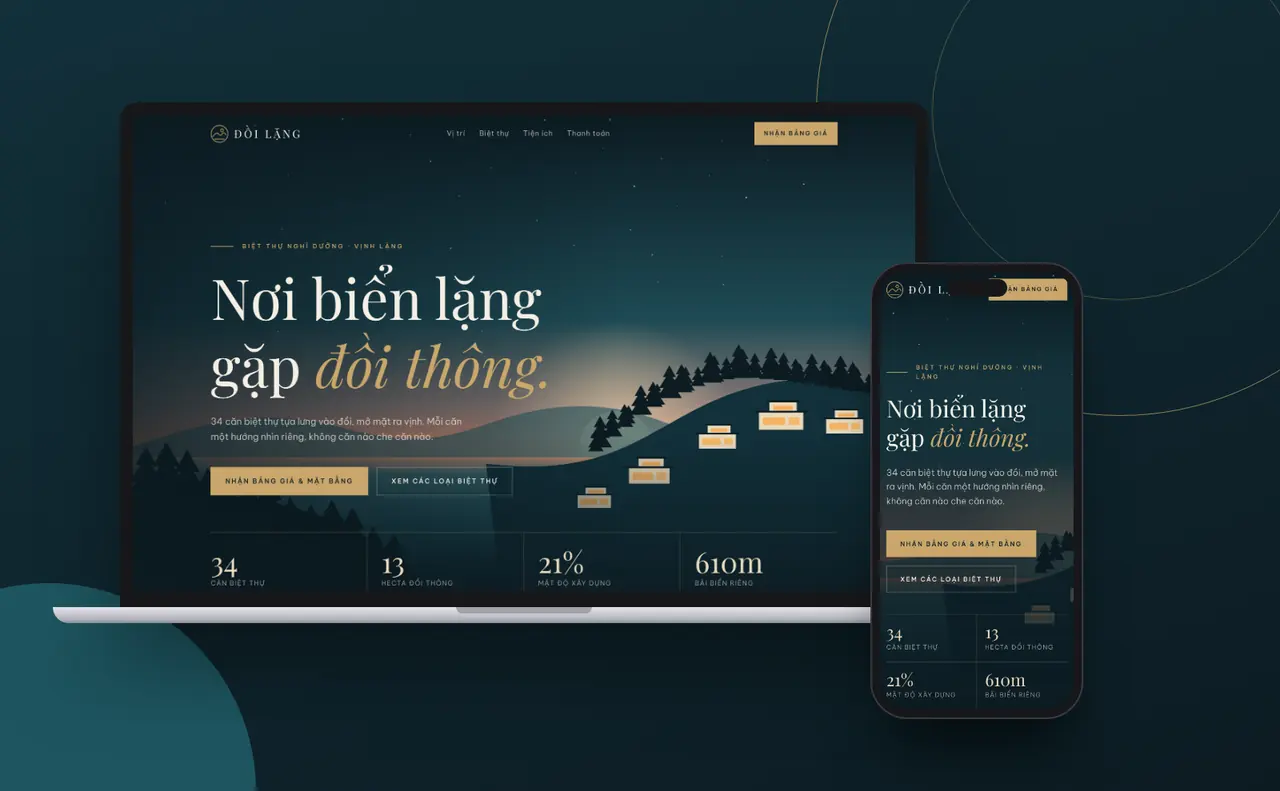
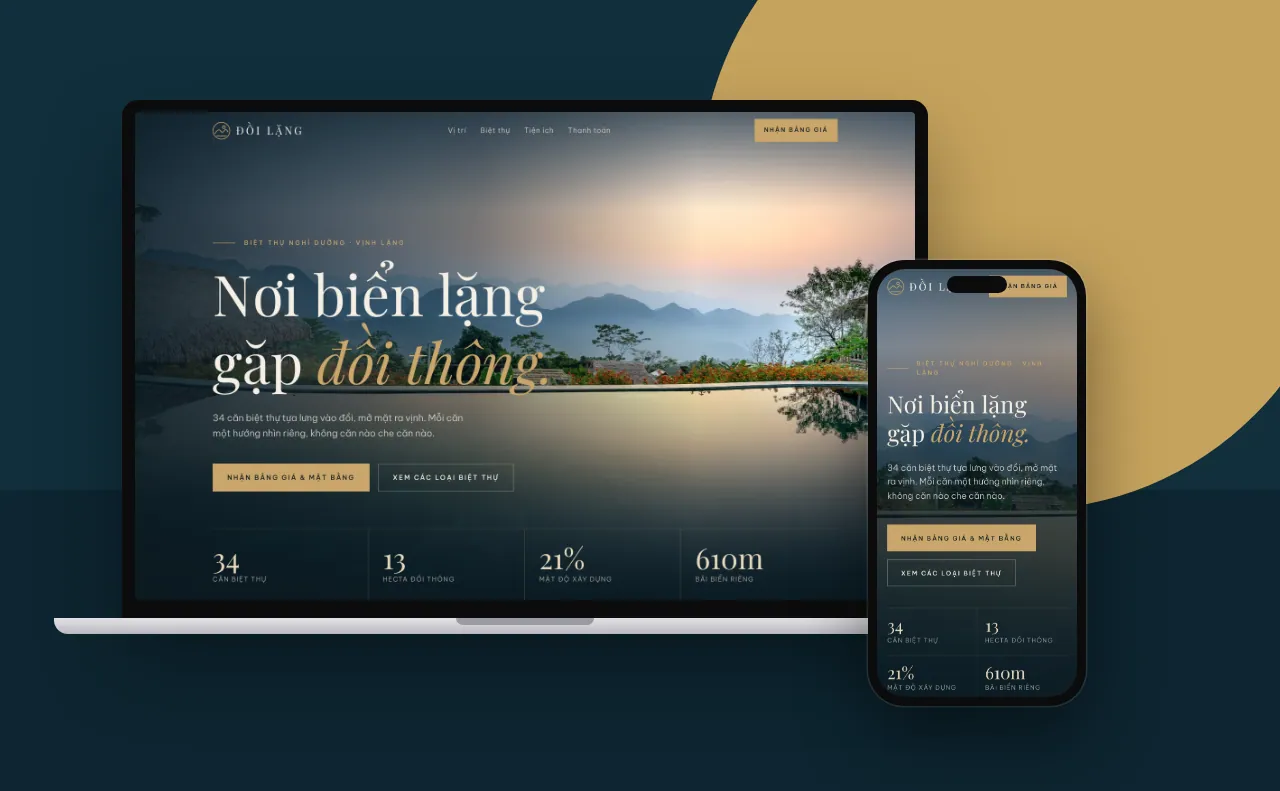
Demo Đồi Lặng: hero sương đồi ảnh thật, cảnh ghim một ngày trên đồi, lookbook kéo có quán tính
Claude-Session: https://claude.ai/code/session_012QLWn7rvRysGvRwdv6upwG

diff --git a/demos/doi-lang.html b/demos/doi-lang.html
@@ -42,28 +42,88 @@ header .btn{min-height:42px;padding:0 16px;font-size:11px}
 @media(max-width:940px){nav{display:none}}
 /* hero */
 .hero{position:relative;min-height:min(100svh,940px);display:flex;align-items:flex-end;overflow:hidden;padding:var(--s8) 0 0}
+.hb{position:absolute;inset:-130px -24px -24px;will-change:transform}
+.hb img{width:100%;height:100%;object-fit:cover;object-position:50% 46%;transform-origin:62% 40%;animation:kb 38s ease-in-out infinite alternate;will-change:transform}
+@keyframes kb{from{transform:scale(1.02)}to{transform:scale(1.15) translate(-1.6%,1.2%)}}
+.fog{position:absolute;left:-6%;right:-6%;top:22%;height:30%;pointer-events:none;overflow:hidden}
+.fog i{display:block;width:200%;height:100%;background:radial-gradient(ellipse 22% 46% at 18% 52%,rgba(244,239,228,.5),transparent 72%),radial-gradient(ellipse 30% 38% at 60% 40%,rgba(244,239,228,.34),transparent 70%),radial-gradient(ellipse 15% 30% at 87% 64%,rgba(244,239,228,.3),transparent 70%);background-size:50% 100%;animation:fg 96s linear infinite;will-change:transform}
+.fog.f2{top:36%;height:28%;opacity:.8}.fog.f2 i{animation-duration:64s;animation-direction:reverse}
+.fog.f3{top:50%;height:34%;opacity:.55}.fog.f3 i{animation-duration:46s}
+@keyframes fg{to{transform:translateX(-50%)}}
+[data-on]:not(.on) *{animation-play-state:paused!important}
 .scene{position:absolute;inset:0;width:100%;height:100%}
 .scene .p{will-change:transform}
 .win{animation:tw 4.24s ease-in-out infinite alternate}.win:nth-child(3n){animation-delay:-1.6s}.win:nth-child(2n){animation-delay:-2.6s}
 @keyframes tw{from{opacity:.45}to{opacity:1}}
 .shim line{stroke:#F6DDB0;stroke-linecap:round;animation:sh 2.62s ease-in-out infinite alternate}
 @keyframes sh{from{opacity:.1;transform:translateX(-10px)}to{opacity:.7;transform:translateX(10px)}}
-.hero::after{content:"";position:absolute;inset:0;background:linear-gradient(90deg,rgba(12,27,34,.8) 0,rgba(12,27,34,.25) 46%,transparent 61.8%),linear-gradient(0deg,rgba(12,27,34,.92) 0,rgba(12,27,34,.5) 16%,transparent 34%);pointer-events:none}
+.hero::after{content:"";position:absolute;inset:0;background:linear-gradient(180deg,rgba(12,27,34,.6) 0,transparent 20%),linear-gradient(90deg,rgba(12,27,34,.86) 0,rgba(12,27,34,.5) 44%,transparent 72%),linear-gradient(0deg,rgba(12,27,34,.94) 0,rgba(12,27,34,.56) 22%,transparent 46%);pointer-events:none}
 .hero .c{position:relative;z-index:2;width:100%}
 .hero h1{font-size:clamp(46px,7.2vw,110px);max-width:11ch;margin:var(--s4) 0}
-.hero h1 span{display:block;overflow:hidden;padding-bottom:.08em}.hero h1 i{display:block;font-style:normal;animation:up var(--d6) var(--ease) both}
-.hero h1 span:nth-child(2) i{animation-delay:.162s}.hero h1 span:nth-child(3) i{animation-delay:.324s}
-@keyframes up{from{transform:translateY(110%)}}
+.hero h1>span{display:block;padding-bottom:.08em}
+.hero h1 .wd{display:inline-block;white-space:nowrap}
+.ch{display:inline-block;font-weight:inherit;animation:mist 2.8s var(--ease) both;animation-delay:calc(.3s + var(--c)*68ms)}
+@keyframes mist{from{opacity:0;transform:translate3d(.5em,.14em,0) scale(1.14)}}
+.js .hero .cap,.js .hero .l,.js .hero .cta,.js .facts{animation:rise 2.4s var(--ease) 1.5s both}.js .hero .cap{animation-delay:.1s}.js .facts{animation-delay:2s}
+@keyframes rise{from{opacity:0;transform:translateY(18px)}}
 .hero .l{max-width:44ch;color:rgba(244,239,228,.82);font-size:17px}
 .cta{display:flex;flex-wrap:wrap;gap:16px;margin-top:var(--s5)}
 .facts{display:grid;grid-template-columns:repeat(4,1fr);margin-top:var(--s6);border-top:1px solid var(--line)}
 .facts div{padding:var(--s4) var(--s4) var(--s4) 0;border-right:1px solid var(--line);padding-left:var(--s4)}.facts div:first-child{padding-left:0}.facts div:last-child{border-right:0}
 .facts b{font-family:var(--fd);font-weight:400;font-size:clamp(33px,4vw,53px);line-height:1;display:block;color:var(--sand)}.facts span{font-size:12px;letter-spacing:.12em;text-transform:uppercase;color:var(--muted)}
-@media(max-width:760px){.hero{padding-top:var(--s7)}.hero::after{background:linear-gradient(0deg,rgba(12,27,34,.96) 0,rgba(12,27,34,.6) 55%,rgba(12,27,34,.1) 80%)}.facts{grid-template-columns:1fr 1fr;margin-top:var(--s5)}.facts div{padding:var(--s3) var(--s3) var(--s3) 0}.facts div:nth-child(2){border-right:0}.facts div:nth-child(odd){padding-left:0}.facts div:nth-child(even){padding-left:var(--s3)}.facts div:nth-child(-n+2){border-bottom:1px solid var(--line)}}
+@media(max-width:760px){.hero{padding-top:var(--s7)}.hero::after{background:linear-gradient(180deg,rgba(12,27,34,.6) 0,transparent 18%),linear-gradient(0deg,rgba(12,27,34,.97) 0,rgba(12,27,34,.78) 50%,rgba(12,27,34,.42) 82%,rgba(12,27,34,.2) 100%)}.fog.f3{display:none}.hb img{object-position:42% 50%}.facts{grid-template-columns:1fr 1fr;margin-top:var(--s5)}.facts div{padding:var(--s3) var(--s3) var(--s3) 0}.facts div:nth-child(2){border-right:0}.facts div:nth-child(odd){padding-left:0}.facts div:nth-child(even){padding-left:var(--s3)}.facts div:nth-child(-n+2){border-bottom:1px solid var(--line)}}
 .sec{padding:var(--s7) 0;position:relative}
 .sh{display:grid;grid-template-columns:1.618fr 1fr;gap:var(--s6);align-items:end;margin-bottom:var(--s6)}
 .sh h2{font-size:clamp(33px,5vw,68px);margin-top:var(--s4)}.sh p{color:var(--muted)}
 @media(max-width:860px){.sec{padding:var(--s6) 0}.sh{grid-template-columns:1fr;gap:var(--s3);margin-bottom:var(--s5)}}
+/* một ngày */
+.day{position:relative}
+.dpin{position:relative;overflow:hidden;padding:var(--s7) 0}
+.ct{position:absolute;width:min(92vw,760px);height:auto;left:-14%;top:50%;transform:translateY(-50%);pointer-events:none;overflow:visible}
+.ct path{fill:none;stroke:var(--gold);stroke-width:1;opacity:.3;stroke-dasharray:1;stroke-dashoffset:1;transition:stroke-dashoffset 3.2s var(--ease);transition-delay:calc(var(--k)*.2s)}
+.ct.in path{stroke-dashoffset:0}
+.dh{position:relative;z-index:1;margin-bottom:var(--s6)}
+.dh h2{font-size:clamp(33px,5vw,68px);margin:var(--s4) 0 var(--s3)}.dh .l{color:var(--muted);max-width:42ch}
+.alt{display:flex;gap:var(--s5);margin-top:var(--s4);padding-top:var(--s3);border-top:1px solid var(--line);max-width:420px}
+.alt b{font-family:var(--fd);font-weight:400;font-size:42px;line-height:1;display:block;color:var(--sand)}.alt span{font-size:11px;letter-spacing:.12em;text-transform:uppercase;color:var(--muted)}
+.dst{position:relative;z-index:2;display:grid;grid-template-columns:repeat(3,1fr);gap:var(--s3);max-width:1280px;margin:0 auto;padding:0 max(20px,4.4vw)}
+.dp{margin:0;position:relative;aspect-ratio:4/5;overflow:hidden;border-radius:16px}
+.dp img{position:absolute;inset:0;width:100%;height:100%;object-fit:cover}
+.dp::after{content:"";position:absolute;inset:0;background:linear-gradient(0deg,rgba(12,27,34,.94),rgba(12,27,34,.66) 34%,transparent 68%)}
+.dp figcaption{position:absolute;z-index:1;left:var(--s4);right:var(--s4);bottom:var(--s4)}
+.tm{font-size:11px;letter-spacing:.3em;font-weight:500;color:var(--gold);display:flex;align-items:center;gap:12px}.tm::after{content:"";width:42px;height:1px;background:var(--gold)}
+.dp h3{font-size:clamp(26px,3vw,42px);margin:10px 0 6px}.dp p{font-size:15px;color:rgba(244,239,228,.84);max-width:36ch}
+.dtk,.day .fog{display:none}
+@media(max-width:860px){.dpin{padding:var(--s6) 0}.dst{grid-template-columns:1fr}.dp{aspect-ratio:4/5}.dp:nth-child(3) img{object-position:72% 50%}}
+.mo .day{height:300svh}
+.mo .dpin{position:sticky;top:0;height:100svh;padding:0}
+.mo .dh{position:absolute;inset:0;margin:0 auto;display:flex;flex-direction:column;justify-content:center}
+.mo .dh>*{max-width:min(44%,540px)}
+.mo .dst{position:absolute;inset:0;display:block;max-width:none;padding:0;will-change:clip-path}
+.mo .dp{position:absolute;inset:0;aspect-ratio:auto;border-radius:0}.mo .dp img{will-change:transform}
+.mo .dp figcaption{left:max(20px,4.4vw);right:max(20px,4.4vw);bottom:var(--s6)}
+.mo .dp h3{font-size:clamp(46px,7.2vw,110px);margin:var(--s3) 0}.mo .dp p{font-size:17px}
+.mo .day .fog{display:block;top:20%;height:32%;opacity:.5}
+.mo .dtk{display:block;position:absolute;z-index:3;right:max(20px,4.4vw);top:32%;bottom:32%;width:1px;background:rgba(244,239,228,.28)}
+.dtk i{position:absolute;inset:0;background:var(--gold);transform-origin:top;transform:scaleY(0)}
+@media(max-width:860px){.mo .dh{justify-content:flex-start;padding-top:92px}.mo .dh>*{max-width:none}.mo .dh .l{display:none}.mo .dp figcaption{bottom:var(--s5)}.mo .dp p{font-size:15px}.mo .dtk{top:20%;bottom:auto;height:22%}}
+/* lookbook */
+.look{overflow:hidden}.look .ct{left:auto;right:-16%;top:0;transform:none;width:min(70vw,560px)}
+.hint{font-size:11px;letter-spacing:.3em;text-transform:uppercase;font-weight:500;color:var(--gold);margin-top:var(--s3);display:block}
+.lb{overflow-x:auto;scroll-snap-type:x mandatory;scrollbar-width:none;-webkit-overflow-scrolling:touch;position:relative}.lb::-webkit-scrollbar{display:none}
+.lt{display:flex;align-items:flex-start;gap:var(--s4);width:max-content;padding:0 max(20px,4.4vw) var(--s3)}
+.lf{margin:0;flex:0 0 auto;width:clamp(280px,35vw,540px);aspect-ratio:4/3;position:relative;overflow:hidden;scroll-snap-align:center}
+.lf.t{width:clamp(220px,24vw,370px);aspect-ratio:3/4}.lf:nth-child(2n){margin-top:var(--s6)}.lf:nth-child(3n){margin-top:var(--s4)}
+.lf img{width:100%;height:100%;object-fit:cover;transition:transform 1.8s var(--ease);-webkit-user-drag:none;user-select:none}
+.lf figcaption{position:absolute;inset:auto 0 0;padding:var(--s6) var(--s3) var(--s3);background:linear-gradient(0deg,rgba(12,27,34,.9),transparent);display:flex;align-items:baseline;gap:12px;font-family:var(--fd);font-size:20px;transition:transform var(--d4) var(--ease),opacity var(--d4) var(--ease)}
+.lf figcaption small{font-family:var(--fb);font-size:11px;letter-spacing:.2em;color:var(--gold);font-weight:500}
+@media(hover:hover){.lf figcaption{transform:translateY(40%);opacity:0}.lf:hover figcaption{transform:none;opacity:1}.lf:hover img{transform:scale(1.07)}}
+.dg .lb{overflow:hidden;cursor:grab;touch-action:pan-y}.dg .lb.gr{cursor:grabbing}.dg .lt{will-change:transform}
+.lpb{height:1px;background:var(--line);margin:var(--s4) max(20px,4.4vw) 0;position:relative}.lpb i{position:absolute;inset:-1px 0 0;background:var(--gold);transform-origin:left;transform:scaleX(.12)}
+@media(max-width:860px){.lt{gap:var(--s3)}.lf{width:78vw}.lf.t{width:62vw}.lf:nth-child(2n){margin-top:var(--s4)}.lf:nth-child(3n){margin-top:var(--s3)}.lf figcaption{font-size:17px}}
+/* chiều muộn */
+.dusk{position:relative;height:min(60vh,540px);overflow:hidden;margin-bottom:var(--s6)}
+.dusk::after{content:"";position:absolute;inset:auto 0 0;height:34%;background:linear-gradient(0deg,var(--night),transparent)}
 /* vị trí */
 .loc{background:var(--deep)}
 .lg{display:grid;grid-template-columns:1.618fr 1fr;gap:var(--s5);align-items:center}
@@ -122,7 +182,7 @@ header .btn{min-height:42px;padding:0 16px;font-size:11px}
 .note{font-size:13px;color:var(--muted);margin-top:var(--s3)}
 @media(max-width:860px){.pay .bar{display:none}.pg{grid-template-columns:1fr 1fr;gap:0;margin-top:var(--s4);border-top:1px solid var(--line)}.ps{border-left:0;border-bottom:1px solid var(--line);padding:var(--s3) 0}.tbl th:nth-child(2),.tbl td:nth-child(2),.tbl th:nth-child(3),.tbl td:nth-child(3){display:none}.tbl td:first-child,.tbl td:last-child{font-size:20px}}
 /* form */
-.lead{background:linear-gradient(180deg,var(--deep),var(--night))}
+.lead{background:linear-gradient(180deg,var(--night),var(--deep));padding-top:0}
 .fgd{display:grid;grid-template-columns:1.618fr 1fr;gap:var(--s6);align-items:center}
 .fgd h2{font-size:clamp(33px,5vw,68px);margin:var(--s4) 0}
 form{border:1px solid var(--line);padding:var(--s5);background:rgba(12,27,34,.5);display:grid;gap:var(--s3)}
@@ -136,7 +196,7 @@ footer{border-top:1px solid var(--line);padding:var(--s5) 0 var(--s7);font-size:
 footer .w{display:flex;flex-wrap:wrap;gap:16px 42px;justify-content:space-between}
 .back{position:fixed;left:16px;bottom:16px;z-index:40;background:rgba(12,27,34,.86);border:1px solid var(--line);padding:0 16px;min-height:42px;display:flex;align-items:center;gap:8px;font-size:12px;letter-spacing:.1em;backdrop-filter:blur(10px)}
 .emb .back{display:none}
-@media(prefers-reduced-motion:reduce){*,*::before,*::after{animation:none!important;transition-duration:.01ms!important}.js [data-r]{opacity:1;transform:none}.rt{stroke-dashoffset:0}}
+@media(prefers-reduced-motion:reduce){*,*::before,*::after{animation:none!important;transition-duration:.01ms!important}.js [data-r]{opacity:1;transform:none}.rt,.ct path{stroke-dashoffset:0}}
 </style>
 </head>
 <body>
@@ -147,34 +207,30 @@ footer .w{display:flex;flex-wrap:wrap;gap:16px 42px;justify-content:space-betwee
 </div></header>
 
 <main id="top">
-<section class="hero">
- <svg class="scene" viewBox="0 0 1440 900" preserveAspectRatio="xMidYMax slice" aria-hidden="true">
-  <defs>
-   <linearGradient id="sky" x1="0" y1="0" x2="0" y2="1"><stop offset="0" stop-color="#0C1B22"/><stop offset=".42" stop-color="#1E4A54"/><stop offset=".6" stop-color="#8F7C78"/><stop offset=".68" stop-color="#DE8E6E"/><stop offset=".72" stop-color="#F0C493"/></linearGradient>
-   <linearGradient id="sea" x1="0" y1="0" x2="0" y2="1"><stop offset="0" stop-color="#C98F73"/><stop offset=".12" stop-color="#3E6C73"/><stop offset=".5" stop-color="#1E5560"/><stop offset="1" stop-color="#0C1B22"/></linearGradient>
-   <radialGradient id="glow"><stop offset="0" stop-color="#F6DDB0" stop-opacity=".7"/><stop offset="1" stop-color="#F6DDB0" stop-opacity="0"/></radialGradient>
-  </defs>
-  <rect width="1440" height="900" fill="url(#sky)"/>
-  <g id="stars" fill="#F4EFE4"></g>
-  <g class="p" data-d=".04"><circle cx="890" cy="610" r="233" fill="url(#glow)"/><circle cx="890" cy="612" r="68" fill="#F6DDB0"/></g>
-  <path class="p" data-d=".07" d="M0 610C140 560 250 540 380 574S560 600 660 566 860 520 980 566s220 30 300 6 110-20 160-10v70H0z" fill="#3B6268" opacity=".75"/>
-  <rect y="630" width="1440" height="270" fill="url(#sea)"/>
-  <g class="shim" id="shim"></g>
-  <g class="p" data-d=".12"><g transform="translate(1440 0) scale(-1 1)">
-   <path d="M0 520C120 470 260 474 380 530c90 42 150 96 260 112 60 9 110 4 150 0L760 900H0z" fill="#12303A"/>
-   <g id="pines" fill="#0C1B22"></g>
-   <g id="villas"></g>
-  </g></g>
-  <g class="p" data-d=".2"><g transform="translate(1440 0) scale(-1 1)"><path d="M880 900c70-110 200-176 360-196 80-10 150-12 200-10v206z" fill="#081319"/><g id="pines2" fill="#081319"></g></g></g>
- </svg>
- <div class="c"><div class="w">
+<section class="hero" data-on>
+ <div class="hb" data-m="-22" data-s=".14"><img src="../img/photo/resort-6129987-xl.webp" width="2400" height="1600" alt="Hồ bơi tràn bờ lúc bình minh, phía xa là những lớp núi mờ trong sương" fetchpriority="high" decoding="async"></div>
+ <div class="fog" data-m="26"><i></i></div><div class="fog f2" data-m="48"><i></i></div><div class="fog f3" data-m="76"><i></i></div>
+ <div class="c" data-m="7"><div class="w">
   <p class="cap">Biệt thự nghỉ dưỡng · Vịnh Lặng</p>
-  <h1><span><i>Nơi biển lặng</i></span><span><i>gặp <em>đồi thông.</em></i></span></h1>
+  <h1 aria-label="Nơi biển lặng gặp đồi thông."><span>Nơi biển lặng</span><span>gặp <em>đồi thông.</em></span></h1>
   <p class="l">34 căn biệt thự tựa lưng vào đồi, mở mặt ra vịnh. Mỗi căn một hướng nhìn riêng, không căn nào che căn nào.</p>
   <div class="cta"><a class="btn" href="#dang-ky">Nhận bảng giá &amp; mặt bằng</a><a class="btn o" href="#biet-thu">Xem các loại biệt thự</a></div>
   <div class="facts"><div><b data-n="34">34</b><span>Căn biệt thự</span></div><div><b data-n="13">13</b><span>Hecta đồi thông</span></div><div><b data-n="21" data-s="%">21%</b><span>Mật độ xây dựng</span></div><div><b data-n="610" data-s="m">610m</b><span>Bãi biển riêng</span></div></div>
  </div></div>
 </section>
+
+<section class="day" id="mot-ngay"><div class="dpin" data-on>
+ <svg class="ct" viewBox="0 0 600 600" aria-hidden="true"></svg>
+ <div class="dh w"><p class="cap">Một ngày trên đồi</p><h2>Nhịp thở chậm,<br><em>từ sương sớm tới&nbsp;chiều&nbsp;tà.</em></h2><p class="l">Trên đồi không ai vội. Ánh sáng đổi màu ba lần mỗi ngày, và mỗi lần là một lý do để ngồi lại lâu hơn.</p>
+  <div class="alt"><div><b data-n="89" data-s=" m">89 m</b><span>Trên mặt vịnh</span></div><div><b data-n="34">34</b><span>Hướng nhìn riêng</span></div></div></div>
+ <div class="dst" id="dst">
+  <figure class="dp"><img src="../img/photo/doi-lang-som.webp" width="1800" height="1350" alt="Mặt hồ phẳng lặng lúc sáng sớm, núi xa chìm trong sương và một góc hiên nhà gỗ" loading="lazy" decoding="async"><figcaption><span class="tm">05:40</span><h3>Sương <em>sớm</em></h3><p>Sương còn nằm dưới thung, mặt hồ phẳng như gương. Cà phê pha xong thì nắng vừa lên.</p></figcaption></figure>
+  <figure class="dp"><img src="../img/photo/resort-30615183.webp" width="1600" height="1068" alt="Hồ ngâm lát đá cạnh sàn gỗ, nhìn thẳng ra mặt biển giữa trưa" loading="lazy" decoding="async"><figcaption><span class="tm">12:00</span><h3>Giữa <em>trưa</em></h3><p>Nắng đứng bóng, sàn gỗ ấm dưới chân. Gió từ vịnh thổi lên đủ để ngủ một giấc ngắn ngoài hiên.</p></figcaption></figure>
+  <figure class="dp"><img src="../img/photo/resort-221457.webp" width="1600" height="1067" alt="Hồ bơi tràn bờ trên sườn đồi lúc hoàng hôn, bầu trời chuyển màu hồng cam" loading="lazy" decoding="async"><figcaption><span class="tm">17:50</span><h3>Chiều <em>tà</em></h3><p>Trời ngả màu san hô, hồ bơi soi lại cả bầu trời. Bữa tối bắt đầu khi đèn hiên vừa sáng.</p></figcaption></figure>
+  <div class="fog"><i></i></div>
+ </div>
+ <div class="dtk"><i></i></div>
+</div></section>
 
 <section class="sec loc" id="vi-tri"><div class="w">
  <div class="sh"><div><p class="cap">Vị trí</p><h2 data-r>Đủ xa để yên tĩnh,<br><em>đủ gần để tiện.</em></h2></div><p data-r>Dự án nằm trên sườn đồi phía nam Vịnh Lặng, nối thẳng ra đường ven biển. Thời gian di chuyển tính theo tốc độ lái xe thông thường.</p></div>
@@ -211,6 +267,12 @@ footer .w{display:flex;flex-wrap:wrap;gap:16px 42px;justify-content:space-betwee
  </div>
 </div></section>
 
+<section class="sec look" id="khong-gian">
+ <div class="w"><svg class="ct" viewBox="0 0 600 600" aria-hidden="true"></svg><div class="sh"><div><p class="cap">Không gian</p><h2 data-r>Mỗi góc nhìn,<br><em>một khoảng lặng.</em></h2></div><p data-r>Hiên gỗ, mặt nước, tán lá. Ảnh minh họa không khí nghỉ dưỡng mà Đồi Lặng hướng tới.<span class="hint">Kéo ngang để dạo quanh</span></p></div></div>
+ <div class="lb" id="lb"><div class="lt" id="lt"></div></div>
+ <div class="lpb"><i id="lp"></i></div>
+</section>
+
 <section class="sec am" id="tien-ich"><div class="w">
  <div class="sh"><div><p class="cap">Tiện ích nội khu</p><h2 data-r>Mọi thứ trong<br><em>năm phút đi bộ.</em></h2></div><p data-r>Tiện ích do đơn vị vận hành quản lý quanh năm, chủ nhà không cần lo bảo trì.</p></div>
  <div class="ag" id="ag"></div>
@@ -225,7 +287,27 @@ footer .w{display:flex;flex-wrap:wrap;gap:16px 42px;justify-content:space-betwee
  <p class="note">Giá minh họa cho trang mẫu, chưa gồm thuế và phí bảo trì.</p>
 </div></section>
 
-<section class="sec lead" id="dang-ky"><div class="w">
+<section class="sec lead" id="dang-ky"><div class="dusk" data-on aria-hidden="true">
+ <svg class="scene" viewBox="0 0 1440 900" preserveAspectRatio="xMaxYMax slice">
+  <defs>
+   <linearGradient id="sky" x1="0" y1="0" x2="0" y2="1"><stop offset="0" stop-color="#0C1B22"/><stop offset=".42" stop-color="#1E4A54"/><stop offset=".6" stop-color="#8F7C78"/><stop offset=".68" stop-color="#DE8E6E"/><stop offset=".72" stop-color="#F0C493"/></linearGradient>
+   <linearGradient id="sea" x1="0" y1="0" x2="0" y2="1"><stop offset="0" stop-color="#C98F73"/><stop offset=".12" stop-color="#3E6C73"/><stop offset=".5" stop-color="#1E5560"/><stop offset="1" stop-color="#0C1B22"/></linearGradient>
+   <radialGradient id="glow"><stop offset="0" stop-color="#F6DDB0" stop-opacity=".7"/><stop offset="1" stop-color="#F6DDB0" stop-opacity="0"/></radialGradient>
+  </defs>
+  <rect width="1440" height="900" fill="url(#sky)"/>
+  <g id="stars" fill="#F4EFE4"></g>
+  <g class="p" data-d=".04"><circle cx="890" cy="610" r="233" fill="url(#glow)"/><circle cx="890" cy="612" r="68" fill="#F6DDB0"/></g>
+  <path class="p" data-d=".07" d="M0 610C140 560 250 540 380 574S560 600 660 566 860 520 980 566s220 30 300 6 110-20 160-10v70H0z" fill="#3B6268" opacity=".75"/>
+  <rect y="630" width="1440" height="270" fill="url(#sea)"/>
+  <g class="shim" id="shim"></g>
+  <g class="p" data-d=".12"><g transform="translate(1440 0) scale(-1 1)">
+   <path d="M0 520C120 470 260 474 380 530c90 42 150 96 260 112 60 9 110 4 150 0L760 900H0z" fill="#12303A"/>
+   <g id="pines" fill="#0C1B22"></g>
+   <g id="villas"></g>
+  </g></g>
+  <g class="p" data-d=".2"><g transform="translate(1440 0) scale(-1 1)"><path d="M880 900c70-110 200-176 360-196 80-10 150-12 200-10v206z" fill="#081319"/><g id="pines2" fill="#081319"></g></g></g>
+ </svg>
+ </div><div class="w">
  <div class="fgd">
   <div data-r><p class="cap">Đăng ký tham quan</p><h2>Xem tận mắt<br><em>trước khi quyết định.</em></h2><p style="color:var(--muted);max-width:44ch">Để lại thông tin, chuyên viên sẽ gửi bảng giá, mặt bằng và sắp xếp xe đưa bạn tới thăm nhà mẫu vào cuối tuần.</p></div>
   <form id="lf" data-r style="--i:1" novalidate>
@@ -238,14 +320,15 @@ footer .w{display:flex;flex-wrap:wrap;gap:16px 42px;justify-content:space-betwee
  </div>
 </div></section>
 </main>
-<footer><div class="w"><span>Đồi Lặng Villas là dự án concept, địa danh và số liệu chỉ để minh họa. Landing page mẫu do <a href="../index.html" target="_top" style="text-decoration:underline;color:var(--sand)">Dream Labs</a> thiết kế.</span><span>hello@doilang.example · 0900 000 000</span></div></footer>
+<footer><div class="w"><span>Đồi Lặng Villas là dự án concept, địa danh và số liệu chỉ để minh họa, ảnh chụp lấy từ thư viện Pexels để minh họa không khí. Landing page mẫu do <a href="../index.html" target="_top" style="text-decoration:underline;color:var(--sand)">Dream Labs</a> thiết kế.</span><span>hello@doilang.example · 0900 000 000</span></div></footer>
 <a class="back" href="../index.html">← DREAM LABS</a>
+<script src="../vendor/gsap.min.js"></script><script src="../vendor/ScrollTrigger.min.js"></script>
 
 <script>
 (()=>{
 document.documentElement.classList.add('js');if(parent!==window)document.documentElement.classList.add('emb');
 const $=(s,r=document)=>r.querySelector(s),$$=(s,r=document)=>[...r.querySelectorAll(s)];
-const RM=matchMedia('(prefers-reduced-motion: reduce)').matches,GA=137.508*Math.PI/180;
+const RM=matchMedia('(prefers-reduced-motion: reduce)').matches,GA=137.508*Math.PI/180,D=document.documentElement,G=window.gsap,MO=!RM&&G&&window.ScrollTrigger;
 /* cảnh hero sinh bằng code */
 $('#stars').innerHTML=Array.from({length:144},(_,i)=>{const r=42*Math.sqrt(i+1),t=(i+1)*GA,x=420+r*Math.cos(t)*1.618,y=120+r*Math.sin(t)*.7;return y<420&&y>0?`<circle cx="${x.toFixed(0)}" cy="${y.toFixed(0)}" r="${(.5+(i%5)*.22).toFixed(1)}" opacity="${(.25+(i%8)*.09).toFixed(2)}"/>`:''}).join('');
 $('#shim').innerHTML=Array.from({length:21},(_,i)=>{const y=640+i*i*.56+i*3,w=30+i*8;return `<line x1="${890-w}" x2="${890+w}" y1="${y.toFixed(0)}" y2="${y.toFixed(0)}" stroke-width="${(1+i*.12).toFixed(1)}" style="animation-delay:${-i*.262}s"/>`}).join('');
@@ -254,9 +337,49 @@ const hill=x=>{const u=x/640;return 520-Math.sin(u*Math.PI*.9)*48+Math.pow(Math.
 $('#pines').innerHTML=Array.from({length:34},(_,i)=>{const x=10+i*17.5+(i%3)*5;return pine(x,hill(x)+10,34+(i*37%29))}).join('');
 $('#pines2').innerHTML=Array.from({length:13},(_,i)=>{const x=960+i*38;return pine(x,880-(x-900)*.34+(i%2)*10,89+(i*53%42))}).join('');
 $('#villas').innerHTML=[[96,560,1],[206,548,1.2],[330,588,1],[452,650,1.1],[560,700,.9]].map(([x,y,s],i)=>`<g transform="translate(${x} ${y}) scale(${s})"><path d="M0 0h68v26H0zM10 -16h42v16H10z" fill="#E8D9BC"/><path d="M-6 0h80v-3H-6zM6 -16h50v-3H6z" fill="#0C1B22"/><g fill="#F6B25E"><rect class="win" x="6" y="7" width="16" height="12"/><rect class="win" x="28" y="7" width="34" height="12"/><rect class="win" x="16" y="-11" width="30" height="7"/></g></g>`).join('');
-/* header + parallax */
-const hd=$('#hd'),ps=$$('.scene .p');let tk=false;
-addEventListener('scroll',()=>{if(tk)return;tk=true;requestAnimationFrame(()=>{tk=false;const y=scrollY;hd.classList.toggle('s',y>42);if(!RM&&y<1000)ps.forEach(p=>p.style.transform=`translateY(${(y*+p.dataset.d).toFixed(1)}px)`)})},{passive:true});
+/* header + parallax: chuột, cuộn */
+const hd=$('#hd'),hero=$('.hero'),ml=$$('[data-m]'),dk=$('.dusk'),ps=$$('.scene .p');let tk=0,mx=0,my=0,cx=0,cy=0,rf=0;
+const paint=()=>{const y=Math.min(scrollY,1100);ml.forEach(l=>{const d=+l.dataset.m;l.style.transform=`translate3d(${(cx*d).toFixed(1)}px,${(cy*d*.6+y*(+l.dataset.s||0)).toFixed(1)}px,0)`})};
+const loop=()=>{cx+=(mx-cx)*.045;cy+=(my-cy)*.045;paint();rf=hero.classList.contains('on')&&Math.abs(mx-cx)+Math.abs(my-cy)>.001?requestAnimationFrame(loop):0};
+RM||hero.addEventListener('pointermove',e=>{if(e.pointerType!=='mouse')return;mx=e.clientX/innerWidth-.5;my=e.clientY/innerHeight-.5;rf||(rf=requestAnimationFrame(loop))});
+addEventListener('scroll',()=>{if(tk)return;tk=1;requestAnimationFrame(()=>{tk=0;const y=scrollY;hd.classList.toggle('s',y>42);if(RM)return;y<1100&&paint();if(dk.classList.contains('on')){const o=innerHeight-dk.getBoundingClientRect().top;ps.forEach(p=>p.style.transform=`translateY(${((o-600)*+p.dataset.d*.4).toFixed(1)}px)`)}})},{passive:true});
+/* tiêu đề tan sương */
+let cn=0;const sp=n=>[...n.childNodes].forEach(k=>{if(k.nodeType!==3)return sp(k);const f=document.createDocumentFragment();k.textContent.split(/(\s+)/).forEach(w=>{if(!w.trim())return w&&f.append(' ');const e=document.createElement('span');e.className='wd';e.setAttribute('aria-hidden','true');e.innerHTML=[...w].map(c=>`<b class="ch" style="--c:${cn++}">${c}</b>`).join('');f.append(e)});k.replaceWith(f)});
+RM||sp($('.hero h1'));
+/* đường đồng mức */
+$$('.ct').forEach((c,q)=>c.innerHTML=Array.from({length:8},(_,k)=>{const r=42+k*34;let d='';for(let i=0;i<=72;i++){const a=i/72*Math.PI*2,m=r*(1+.2*Math.sin(3*a+k*.55+q*2)+.11*Math.cos(5*a-k*.8)+.05*Math.sin(2*a+k*GA));d+=(i?'L':'M')+(300+m*Math.cos(a)*1.15).toFixed(1)+' '+(300+m*Math.sin(a)*.86).toFixed(1)}return `<path pathLength="1" style="--k:${k}" d="${d}z"/>`}).join(''));
+/* lookbook kéo có quán tính */
+const L=[[12431670,1600,1065,'Phòng khách lát gỗ mở thẳng ra mặt nước xanh ngọc','Phòng khách mở ra mặt nước'],[34732331,1200,1600,'Hàng dừa in bóng xuống hồ bơi trong vắt','Hàng dừa bên mép hồ'],[36681530,1600,1067,'Căn nhà mái ngói thấp nằm cạnh hồ bơi, sau lưng là đồi xanh','Mái ngói tựa lưng vào đồi'],[14024043,1600,1066,'Hồ bơi giữa vườn dừa nhìn từ trên cao','Hồ bơi giữa vườn'],[37657485,1200,1600,'Hồ bơi nhỏ dưới tán lá dừa','Buổi trưa dưới tán lá'],[261181,1600,1068,'Hồ bơi tràn bờ lát gạch xanh soi bóng mây, hai bên là chòi nghỉ','Hồ tràn bờ soi bóng mây']];
+const lb=$('#lb'),lt=$('#lt'),lp=$('#lp');
+lt.innerHTML=L.map((a,i)=>`<figure class="lf${a[1]<a[2]?' t':''}" data-r style="--i:${i%4}"><img src="../img/photo/resort-${a[0]}.webp" width="${a[1]}" height="${a[2]}" alt="${a[3]}" loading="lazy" decoding="async" draggable="false"><figcaption><small>0${i+1}</small>${a[4]}</figcaption></figure>`).join('');
+if(!RM&&matchMedia('(hover:hover) and (pointer:fine)').matches){D.classList.add('dg');let x=0,v=0,dn=0,px=0,id=0;const mn=()=>Math.min(0,lb.clientWidth-lt.scrollWidth),
+ put=()=>{const m=mn();if(x>0||x<m){x=Math.max(m,Math.min(0,x));v=0}lt.style.transform=`translate3d(${x.toFixed(1)}px,0,0) skewX(${Math.max(-3,Math.min(3,-v*.09)).toFixed(2)}deg)`;lp.style.transform=`scaleX(${m?.12+.88*x/m:1})`},
+ glide=()=>{if(dn)return id=0;v*=.945;x+=v;if(Math.abs(v)<.15)v=0;put();id=v?requestAnimationFrame(glide):0},
+ up=()=>{if(!dn)return;dn=0;lb.classList.remove('gr');id||(id=requestAnimationFrame(glide))};
+ lb.addEventListener('pointerdown',e=>{dn=1;px=e.clientX;v=0;lb.setPointerCapture(e.pointerId);lb.classList.add('gr')});
+ lb.addEventListener('pointermove',e=>{if(!dn)return;const d=e.clientX-px;px=e.clientX;x+=d;v=d;put()});
+ lb.addEventListener('pointerup',up);lb.addEventListener('pointercancel',up);
+ lb.addEventListener('wheel',e=>{if(Math.abs(e.deltaX)>Math.abs(e.deltaY)){e.preventDefault();x-=e.deltaX;v=0;put()}},{passive:false});
+ addEventListener('resize',put)}
+else lb.addEventListener('scroll',()=>{const m=lb.scrollWidth-lb.clientWidth;lp.style.transform=`scaleX(${m?.12+.88*lb.scrollLeft/m:1})`},{passive:true});
+/* một ngày trên đồi: ảnh nhỏ phóng lớn, đổi cảnh bằng wipe chéo */
+if(MO){D.classList.add('mo');G.registerPlugin(ScrollTrigger);
+ const f=$$('.dp'),im=f.map(x=>$('img',x)),cp=f.map(x=>$('figcaption',x)),sm=()=>innerWidth<860,
+ tl=G.timeline({defaults:{ease:'power2.inOut'},scrollTrigger:{trigger:'.day',start:'top top',end:'bottom bottom',scrub:.9,invalidateOnRefresh:true}});
+ G.set(cp,{autoAlpha:0,y:42});G.set(f.slice(1),{autoAlpha:0});
+ tl.fromTo('#dst',{clipPath:()=>sm()?'inset(47% 5% 6% 5% round 16px)':'inset(17% 4.4% 17% 54% round 20px)'},{clipPath:'inset(0% 0% 0% 0% round 0px)',duration:3},0)
+  .fromTo(im[0],{scale:1.3,xPercent:()=>sm()?0:11,yPercent:()=>sm()?9:0},{scale:1,xPercent:0,yPercent:0,duration:3},0)
+  .to('.dh,.day .ct',{autoAlpha:0,y:-42,duration:1.3,ease:'power2.in'},.2)
+  .fromTo('.dtk',{autoAlpha:0},{autoAlpha:1,duration:.6},2.6).fromTo('.dtk i',{scaleY:0},{scaleY:1,duration:7,ease:'none'},3)
+  .to(cp[0],{autoAlpha:1,y:0,duration:.9,ease:'power3.out'},2.4);
+ [1,2].forEach(k=>{const t=4+(k-1)*3;
+  tl.to(cp[k-1],{autoAlpha:0,y:-26,duration:.6,ease:'power2.in'},t-.1)
+   .fromTo(f[k],{clipPath:'polygon(128% 0%,128% 0%,100% 100%,100% 100%)'},{clipPath:'polygon(0% 0%,128% 0%,100% 100%,-28% 100%)',duration:1.7},t)
+   .to(f[k],{autoAlpha:1,duration:.7,ease:'none'},t)
+   .fromTo(im[k],{scale:1.18,xPercent:5},{scale:1,xPercent:0,duration:2.2,ease:'power2.out'},t)
+   .to(im[k-1],{xPercent:-5,duration:1.7},t)
+   .to(cp[k],{autoAlpha:1,y:0,duration:.9,ease:'power3.out'},t+1.1)});
+ addEventListener('load',()=>ScrollTrigger.refresh())}
 /* mặt bằng */
 const V=[{n:'Biệt thự <em>Thông</em>',d:'Căn nhỏ gọn cho gia đình trẻ hoặc cặp đôi. Phòng khách liền bếp mở ra hiên gỗ nhìn xuống vịnh.',s:['233 m²','144 m²','21 m²','13 căn'],p:'8,9',r:[[0,0,377,377,'Khách + bếp','55 m²'],[377,0,233,233,'Ngủ chính','34 m²'],[466,233,144,144,'Ngủ 2','21 m²'],[377,233,89,89,'Tắm',''],[377,322,89,55,'Hiên','']]},
  {n:'Biệt thự <em>Sóng</em>',d:'Ba phòng ngủ đều có cửa kính lớn hướng biển. Bếp và phòng ăn tách riêng để đón khách.',s:['377 m²','233 m²','34 m²','13 căn'],p:'13,8',r:[[0,0,377,233,'Phòng khách','55 m²'],[0,233,233,144,'Bếp + ăn','34 m²'],[233,233,144,144,'Ngủ 3','21 m²'],[377,0,233,233,'Ngủ chính','55 m²'],[466,233,144,144,'Ngủ 2','21 m²'],[377,233,89,144,'Tắm','']]},
@@ -276,10 +399,10 @@ $('#ag').innerHTML=A.map((a,i)=>`<div class="ai" data-r style="--i:${i%3}"><smal
 /* form */
 $('#lf').addEventListener('submit',e=>{e.preventDefault();const ok=$$('#lf input').every(f=>f.value.trim());$('#lm').textContent=ok?'Cảm ơn bạn. Đây là trang mẫu nên chưa có đăng ký nào được ghi nhận.':'Bạn điền giúp họ tên và số điện thoại nhé.'});
 /* reveal + đếm số */
-const count=el=>{const n=+el.dataset.n,s=el.dataset.s||'';if(RM){return}const t0=performance.now(),run=t=>{const u=Math.min(1,(t-t0)/1796),e=1-Math.pow(1-u,3);el.textContent=Math.round(n*(.382+.618*e))+s;u<1&&requestAnimationFrame(run)};requestAnimationFrame(run)};
-$$('.facts b').forEach(count);
-const els=$$('[data-r]');
-if('IntersectionObserver' in window){const io=new IntersectionObserver(es=>es.forEach(e=>{if(e.isIntersecting){e.target.classList.add('in');io.unobserve(e.target)}}),{threshold:.12,rootMargin:'0px 0px -6% 0px'});els.forEach(el=>io.observe(el))}else els.forEach(el=>el.classList.add('in'));
+const count=el=>{const n=+el.dataset.n,s=el.dataset.s||'',t0=performance.now(),run=t=>{const u=Math.min(1,(t-t0)/2400),e=1-Math.pow(1-u,4);el.textContent=Math.round(n*(.382+.618*e))+s;u<1&&requestAnimationFrame(run)};requestAnimationFrame(run)};
+const els=$$('[data-r],.ct,[data-n]');
+if('IntersectionObserver' in window){const io=new IntersectionObserver(es=>es.forEach(e=>{if(e.isIntersecting){e.target.classList.add('in');RM||e.target.dataset.n&&count(e.target);io.unobserve(e.target)}}),{threshold:.12,rootMargin:'0px 0px -6% 0px'});els.forEach(el=>io.observe(el));
+ const on=new IntersectionObserver(es=>es.forEach(e=>e.target.classList.toggle('on',e.isIntersecting)));$$('[data-on]').forEach(el=>on.observe(el))}else{els.forEach(el=>el.classList.add('in'));$$('[data-on]').forEach(el=>el.classList.add('on'))}
 try{parent!==window&&parent.postMessage({wkDemo:'doi-lang'},'*')}catch(e){}
 })();
 </script>
